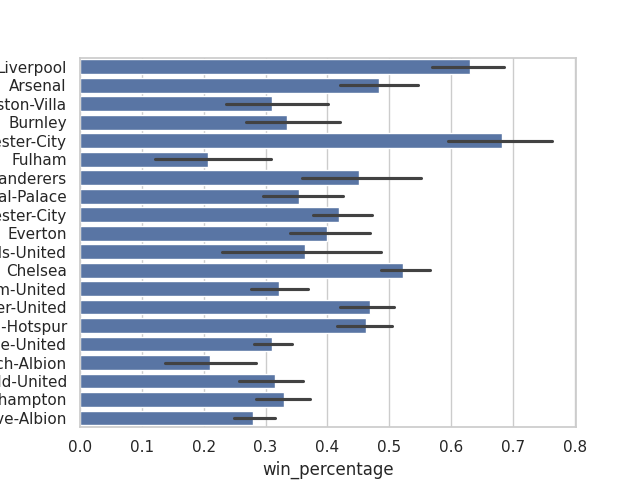
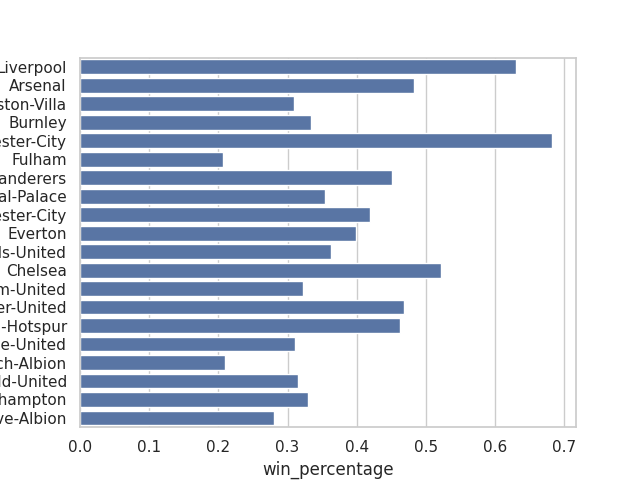
rough draft for submitting

diff --git a/magazine/magazine/pages/winrate.html b/magazine/magazine/pages/winrate.html
@@ -14,7 +14,7 @@
    <ul class="topNav">
        <li><a href="../home.html"> Home </a></li>
 		<li><a href="top_player.html">Top Player</a></li>
-		<li><a href="team_comp.html" class="topNavAct">team comp</a></li>
+		<li><a href="#" class="topNavAct">Winrate</a></li>
 		<li><a href="jerseys.html">Jerseys &amp; Pos.</a></li>
 		<li><a href="#">THE TALK OF THE TOWN</a></li>
 		<li><a href="#">ONLINE ONLY</a></li>
@@ -29,32 +29,30 @@
     <div class="contant_1">
 	<div class="contant_1_left">
 	  <h2>
-       TEAM COMP WOOOO
-       <span>September 1, 2009 | (0) Comments</span>
+       Team Winrates
       </h2>
-	  <img src="../images/c1_i1.png" width="277" height="266" alt="" />
-	  <h3>What We Speak.</h3>
+	  
 	  <br class="clear bottomClear" />
-	  <p>Lorem Ipsum is simply dummy text of the printing and typesetting industry. Lorem Ipsum has been the industry's standard dummy text ever since the 1500s, when an unknown printer took a galley of type and scrambled it to make a type specimen book. It has survived not only five centuries, but also the leap into electronic typesetting, remaining essentially unchanged.<br /><br />
+	  <p> It makes sense that the teams that win more, have players with higher winrates. This dataset includes players' past statistics 
+		from the premier league, which could contain other teams. Therefore, this is not a completely accurate representation of each team's success.
+		However, we still generally see that the more successful teams have higher player average winrates.
+		<p class="quoteBar"> NOTE: matplotlib has weird clipping software, and I couldn't figure out how to get the whole y-axis labels in the short timeframe.</p>	  
+		<img src="../images/Winrate.png" width="680" height="600" style="margin-bottom:10px; margin-right: 10px; float:right;" alt="" />
 
-It was popularised in the 1960s with the release of Letraset sheets containing Lorem Ipsum passages, and more recently with desktop publishing software like Aldus PageMaker including versions of Lorem Ipsum.<br /><br />
-There are many variations of passages of <a href="#">Lorem Ipsum</a> available:</p>
-      <p class="quoteBar">If you are going to use a passage of Lorem Ipsum, you need to be sure there isn't anything embarrassing hidden in the middle of text. All the Lorem Ipsum generators on the Internet tend to repeat predefined chunks as necessary, making this the first true generator on the Internet.</p>
-	  <p>It uses a dictionary of over 200 Latin words, combined with a handful of model sentence structures, to generate Lorem Ipsum which looks reasonable.</p>
-	  </div>
+	</div>
 	<div class="sideBar">
 	  <div class="sideBarListBox">
 	   <img src="../images/sideBarListBoxTop.png" alt="" width="240" height="10" />
 	   <ul>
-         <li><a href="#" >What is Lorem Ipsum?</a></li>
-         <li><a href="#">Why Do We Use It?</a></li>
-		 <li><a href="#">Where Does It Come From?</a></li>
-		 <li><a href="#">Where Can I Get Some?</a></li>
-		 <li><a href="#">There are many variations of passages of Lorem Ipsum available</a></li>
-		 <li><a href="#">Alteration In Some Form</a></li>
-		 <li><a href="#">If you are going to use a passage</a></li>
-		 <li><a href="#">You Need To Be Sure There</a></li>
-		 <li><a href="#">The generated Lorem Ipsum is</a></li>
+         <li><a href="#">Ads go here!</a></li>
+         <li><a href="#">Ads go here!</a></li>
+		 <li><a href="#">Ads go here!</a></li>
+		 <li><a href="#">Ads go here!</a></li>
+		 <li><a href="#">Ads go here!</a></li>
+		 <li><a href="#">Ads go here!</a></li>
+		 <li><a href="#">Ads go here!</a></li>
+		 <li><a href="#">Ads go here!</a></li>
+		 <li><a href="#">Ads go here!</a></li>
         </ul>
 	   <img src="../images/sideBarListBoxBottom.png" alt="" width="240" height="10" />
 	  </div>
@@ -80,14 +78,15 @@ There are many variations of passages of <a href="#">Lorem Ipsum</a> available:<
    </div>
    </div>
    <div class="midBox1">
-		 <span><img src="../images/c2_i6.png" width="303" height="420" alt="" /></span>
+		<span><img src="../images/PLtable.png" width="350" height="380" alt="" /></span>
+		<h3 style="text-align: left;">Results:</h3> 
+			<p>As we can see, the player winrates coincide with the winners of the league that year. This dataset is from 2020,
+			and looking at the table to the right, it is clear that the teams ending higher on the table also had higher winrates.
+			</p>
+		</div>
 	     <div class="midBox1Top">
-		 <h3>Lorem ipsum dolor sit amet, consectetur adipisicing elit, sed do eiusmod tempor incididunt ut labore et dolore magna aliqua.</h3>
-		 <p>Duis aute irure dolor in reprehenderit in voluptate velit esse cillum<br /> dolore eu fugiat nulla pariatur. Excepteur sint occaecat cupidatat non<br /> proident, sunt in culpa qui officia deserunt mollit anim id est laborum.</p>
-		 <a href="#"><img src="../images/c2_i2.png" width="133" height="40" alt="" /></a>
-		 <a href="#"><img src="../images/c2_i3.png" width="84" height="40" alt=""  /></a>
-		 <a href="#"><img src="../images/c2_i4.png" width="93" height="40" alt=""  /></a>
-		 <a href="#"><img src="../images/c2_i5.png" width="101" height="38" alt=""  /></a>		 </div>
+			
+		 	
 		 <div class="midBox1Bottom">
 		  <h4>Neque porro quisquam?</h4>
 		  <ul>

diff --git a/magazine/magazine/pages/jerseys.html b/magazine/magazine/pages/jerseys.html
@@ -14,7 +14,7 @@
    <ul class="topNav">
        <li><a href="../home.html" > Home </a></li>
 		<li><a href="top_player.html">Top Player</a></li>
-		<li><a href="team_comp.html">team comp</a></li>
+		<li><a href="winrate.html">Winrate</a></li>
 		<li><a href="jerseys.html" class="topNavAct">Jerseys &amp; Pos.</a></li>
 		<li><a href="#">THE TALK OF THE TOWN</a></li>
 		<li><a href="#">ONLINE ONLY</a></li>
@@ -32,15 +32,18 @@
        Jersey Numbers and their Positions
        <span>September 1, 2009 | (0) Comments</span>
       </h2>
-	  <img src="../images/Jerseys.png" width="277" height="266" alt="" />
+	  <img src="../images/Jerseys.png" width="300" height="275" alt="" />
 	  <br class="clear bottomClear" />
-	  <p>Lorem Ipsum is simply dummy text of the printing and typesetting industry. Lorem Ipsum has been the industry's standard dummy text ever since the 1500s, when an unknown printer took a galley of type and scrambled it to make a type specimen book. It has survived not only five centuries, but also the leap into electronic typesetting, remaining essentially unchanged.<br /><br />
-
-It was popularised in the 1960s with the release of Letraset sheets containing Lorem Ipsum passages, and more recently with desktop publishing software like Aldus PageMaker including versions of Lorem Ipsum.<br /><br />
-There are many variations of passages of <a href="#">Lorem Ipsum</a> available:</p>
-      <p class="quoteBar">If you are going to use a passage of Lorem Ipsum, you need to be sure there isn't anything embarrassing hidden in the middle of text. All the Lorem Ipsum generators on the Internet tend to repeat predefined chunks as necessary, making this the first true generator on the Internet.</p>
-	  <p>It uses a dictionary of over 200 Latin words, combined with a handful of model sentence structures, to generate Lorem Ipsum which looks reasonable.</p>
-	  </div>
+	  <p>I noticed when watching games that the same numbers tend to appear in the same positions. For example, forwards are often seen
+		wearing numbers 7-11, while goalkeepers either wear 0/1, or a random high number. Having noticed this, I expected to see the
+		different positions show different jersey number data.
+	  </p>
+	  <p class="quoteBar" style="padding-left: 10px;"> This phenomonon is likely due to idols and influence across generations. For example, famous footballer Lionel Messi
+		wears number 10, so people who look up to him and likely play attack will also want to wear number 10.
+		<p>In my opinion, this visualization showing a boxplot of the data was actually a big flop. Showing averages doesn't help much, because as
+			previously mentioned some positions could have a very large range of numbers. Scroll down for a better vis.
+		</p>
+      </div>
 	<div class="sideBar">
 	  <div class="sideBarListBox">
 	   <img src="../images/sideBarListBoxTop.png" alt="" width="240" height="10" />
@@ -79,22 +82,14 @@ There are many variations of passages of <a href="#">Lorem Ipsum</a> available:<
    </div>
    </div>
    <div class="midBox1">
-		 <span><img src="../images/c2_i6.png" width="303" height="420" alt="" /></span>
+		 <span><img src="../images/jerseyswarm.png" width="303" height="420" alt="" /></span>
 	     <div class="midBox1Top">
-		 <h3>Lorem ipsum dolor sit amet, consectetur adipisicing elit, sed do eiusmod tempor incididunt ut labore et dolore magna aliqua.</h3>
-		 <p>Duis aute irure dolor in reprehenderit in voluptate velit esse cillum<br /> dolore eu fugiat nulla pariatur. Excepteur sint occaecat cupidatat non<br /> proident, sunt in culpa qui officia deserunt mollit anim id est laborum.</p>
-		 <a href="#"><img src="../images/c2_i2.png" width="133" height="40" alt="" /></a>
-		 <a href="#"><img src="../images/c2_i3.png" width="84" height="40" alt=""  /></a>
-		 <a href="#"><img src="../images/c2_i4.png" width="93" height="40" alt=""  /></a>
-		 <a href="#"><img src="../images/c2_i5.png" width="101" height="38" alt=""  /></a>		 </div>
+		 <h3> The photo to the right utilizes a swarmplot to convey the individual points of jersey number.</h3>
+		 
 		 <div class="midBox1Bottom">
-		  <h4>Neque porro quisquam?</h4>
-		  <ul>
-		   <li class="cat002"><a href="#" >Lorem Ipsum is simply dummy text of the printing</a></li>
-		   <li class="cat002"><a href="#" >It is a long established fact that a reader</a></li>
-		   <li class="cat002"><a href="#" >There are many variations of passages of Lorem Ipsum</a></li>
-		   <li class="cat002"><a href="#" >Contrary to popular belief, Lorem Ipsum is not simply random text</a></li>
-		  </ul>
+		  <p style="text-align: left;">While this graph is much better, and the patterns of player jersey numbers starts to be more visible,
+			it still has the flaw that not all the points can be drawn, and it is a bit hard to discern exactly what number many of the points
+			are representing.</p>
 		 </div>
 		 <br class="clear" />
 	  </div>

diff --git a/magazine/magazine/home.html b/magazine/magazine/home.html
@@ -14,12 +14,12 @@
    <ul class="topNav">
        <li><a href="home.html" class="topNavAct"> Home </a></li>
 		<li><a href="pages/top_player.html">Top Player</a></li>
-		<li><a href="pages/team_comp.html">team comp</a></li>
+		<li><a href="pages/winrate.html">Winrate</a></li>
 		<li><a href="pages/jerseys.html">Jerseys &amp; Pos.</a></li>
 		<li><a href="#">THE TALK OF THE TOWN</a></li>
 		<li><a href="#">ONLINE ONLY</a></li>
 		<li><a href="pages/subscribe.html">SUBSCRIBE</a></li>
-		<li><a href="About">ABOUT</a></li>
+		<li><a href="#">ABOUT</a></li>
 		<li><a href="#">ARCHIVE</a></li>
 		<li><a href="#" class="topNavLast">VIDEO</a></li>
         
@@ -29,19 +29,21 @@
     <div class="contant_1">
 	<div class="contant_1_left">
 	  <h2>
-       What is Lorem Ipsum?
+       Introduction
        <span>September 1, 2009 | (0) Comments</span>
       </h2>
 	  <img src="images/c1_i1.png" width="277" height="266" alt="" />
-	  <h3>What We Speak.</h3>
+	  <h3>About the Data</h3>
 	  <br class="clear bottomClear" />
-	  <p>Lorem Ipsum is simply dummy text of the printing and typesetting industry. Lorem Ipsum has been the industry's standard dummy text ever since the 1500s, when an unknown printer took a galley of type and scrambled it to make a type specimen book. It has survived not only five centuries, but also the leap into electronic typesetting, remaining essentially unchanged.<br /><br />
-
-It was popularised in the 1960s with the release of Letraset sheets containing Lorem Ipsum passages, and more recently with desktop publishing software like Aldus PageMaker including versions of Lorem Ipsum.<br /><br />
-There are many variations of passages of <a href="#">Lorem Ipsum</a> available:</p>
-      <p class="quoteBar">If you are going to use a passage of Lorem Ipsum, you need to be sure there isn't anything embarrassing hidden in the middle of text. All the Lorem Ipsum generators on the Internet tend to repeat predefined chunks as necessary, making this the first true generator on the Internet.</p>
-	  <p>It uses a dictionary of over 200 Latin words, combined with a handful of model sentence structures, to generate Lorem Ipsum which looks reasonable.</p>
-	  </div>
+	  <p>I have been working with the "All Time Premier League Player Statistics" datatset (found <a href="https://www.kaggle.com/datasets/rishikeshkanabar/premier-league-player-statistics-updated-daily">here</a>).
+		 This dataset is from 2020, and looks at a variety of statistics for the Premier League players at that time. In football, there are lots of coorelations between statistics. 
+		 For example, a player on a better team is likely to have a higher number of goals/game.
+		 While there are lots of different comparisons between statistics that could be run on this dataset, the first issue I ran into was finding two stats to compare that was actually compelling.
+		  Football, being the most popular sport in the world, has been thoroughly analyzed. As a major consumer of all things Premier League personally, many of the potential visualizations have known results and therefore are uninteresting.</p>
+		<br/>
+		<p> Disclaimer: This page is a total mess, as I had a lot of stuff that I was learning about with formatting. While a few of
+			the tabs may change, the only ones with actual visualizations on them are the "Winrate" and "Jersey & Pos" tabs. </p>
+		</div>
 	<div class="sideBar">
 	  <div class="sideBarListBox">
 	   <img src="images/sideBarListBoxTop.png" alt="" width="240" height="10" />

diff --git a/magazine/magazine/pages/top_player.html b/magazine/magazine/pages/top_player.html
@@ -14,7 +14,7 @@
    <ul class="topNav">
        <li><a href="../home.html"> Home </a></li>
 		<li><a href="top_player.html" class="topNavAct">Top Player</a></li>
-		<li><a href="team_comp.html">team comp</a></li>
+		<li><a href="winrate.html">Winrate</a></li>
 		<li><a href="jerseys.html">Jerseys &amp; Pos.</a></li>
 		<li><a href="#">THE TALK OF THE TOWN</a></li>
 		<li><a href="#">ONLINE ONLY</a></li>
@@ -25,20 +25,18 @@
         
 	  </ul><br class="clear" />
    </div>
+   
    <div id="contant">
     <div class="contant_1">
-	<div class="contant_1_left">
+	<div class="contant_1_left" style="background-color:thistle">
 	  <h2>
        KDB TOP PLAYER ALL TIME?
-       <span>September 1, 2009 | (0) Comments</span>
+       <span><script type="text/javascript">document.write(new Date().getMonth(), "/", new Date().getDate(), "/", new Date().getFullYear());</script></span>
       </h2>
-	  <img src="../images/Jerseys.png" width="277" height="266" alt="" />
-	  <h3>What We Speak.</h3>
+	  <img src="../images/kdb.png" width="300" height="266" style="float:right;" alt="" />
+	  <p style="margin-left: 10px;">Some people say I'm crazy. I say they're haters.</p>
 	  <br class="clear bottomClear" />
-	  <p>Lorem Ipsum is simply dummy text of the printing and typesetting industry. Lorem Ipsum has been the industry's standard dummy text ever since the 1500s, when an unknown printer took a galley of type and scrambled it to make a type specimen book. It has survived not only five centuries, but also the leap into electronic typesetting, remaining essentially unchanged.<br /><br />
-
-It was popularised in the 1960s with the release of Letraset sheets containing Lorem Ipsum passages, and more recently with desktop publishing software like Aldus PageMaker including versions of Lorem Ipsum.<br /><br />
-There are many variations of passages of <a href="#">Lorem Ipsum</a> available:</p>
+	  
       <p class="quoteBar">If you are going to use a passage of Lorem Ipsum, you need to be sure there isn't anything embarrassing hidden in the middle of text. All the Lorem Ipsum generators on the Internet tend to repeat predefined chunks as necessary, making this the first true generator on the Internet.</p>
 	  <p>It uses a dictionary of over 200 Latin words, combined with a handful of model sentence structures, to generate Lorem Ipsum which looks reasonable.</p>
 	  </div>

diff --git a/magazine/magazine/pages/subscribe.html b/magazine/magazine/pages/subscribe.html
@@ -14,7 +14,7 @@
    <ul class="topNav">
        <li><a href="../home.html" > Home </a></li>
 		<li><a href="top_player.html">Top Player</a></li>
-		<li><a href="team_comp.html">team comp</a></li>
+		<li><a href="winrate.html">Winrate</a></li>
 		<li><a href="jerseys.html">Jerseys &amp; Pos.</a></li>
 		<li><a href="#">THE TALK OF THE TOWN</a></li>
 		<li><a href="#">ONLINE ONLY</a></li>
